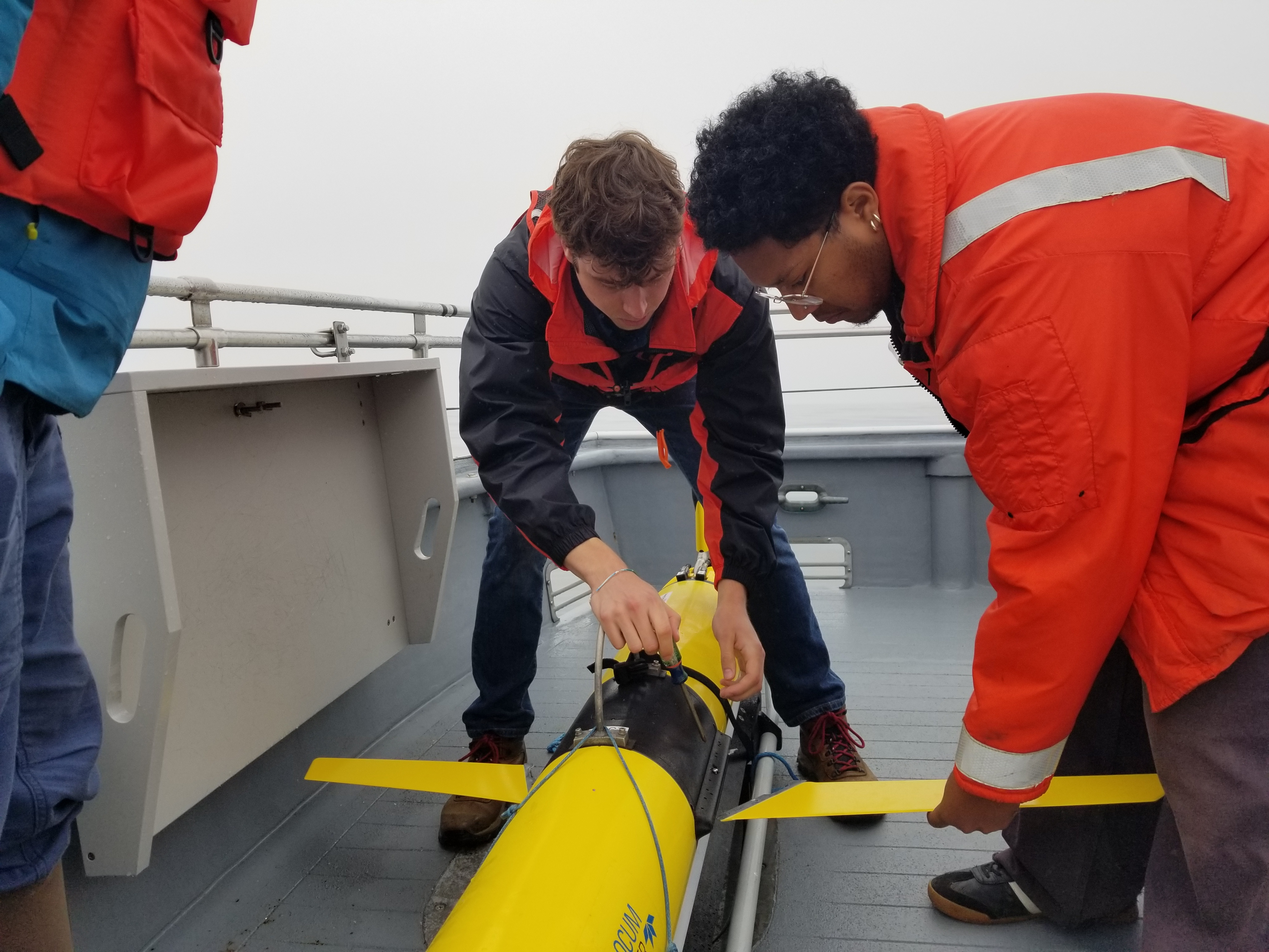
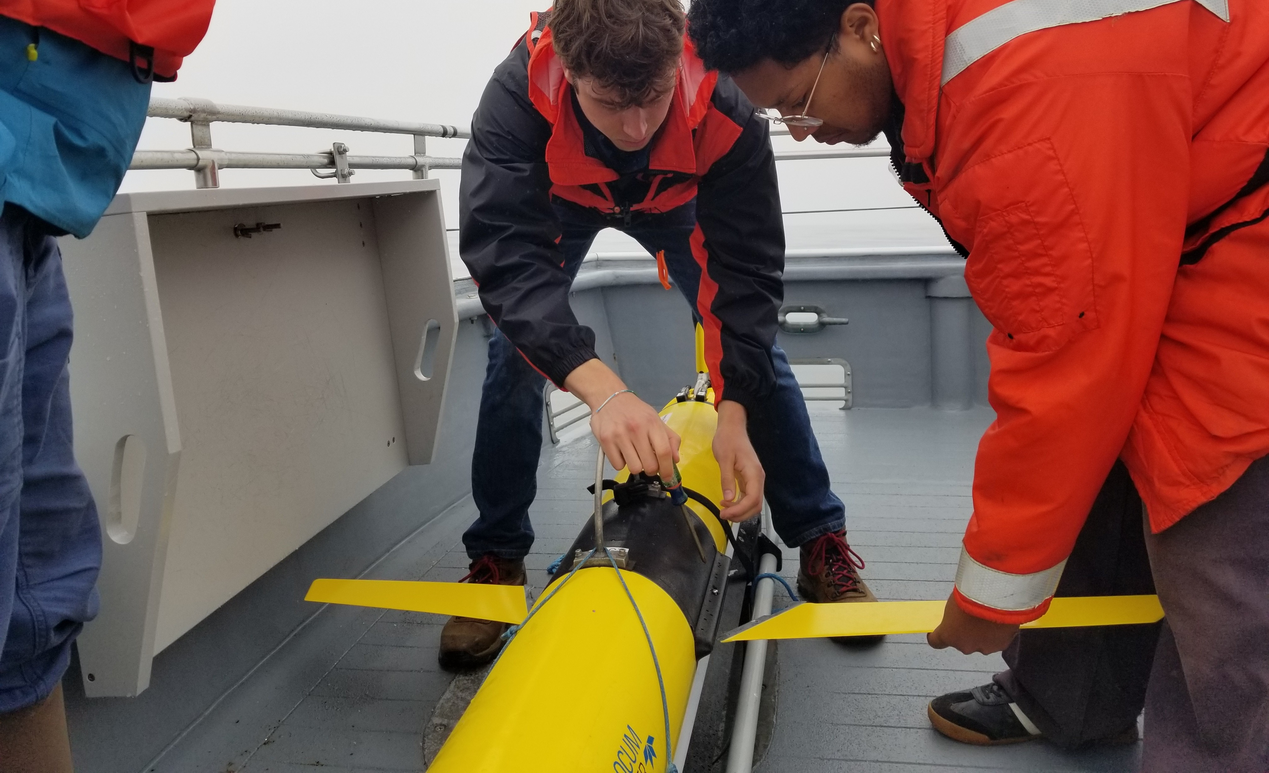
Built site for gh-pages

diff --git a/seagliders/basestation/basestation.html b/seagliders/basestation/basestation.html
@@ -239,38 +239,55 @@ ul.task-list li input[type="checkbox"] {
 
 <section id="common-basestation-commands" class="level2">
 <h2 class="anchored" data-anchor-id="common-basestation-commands">Common Basestation Commands</h2>
-<p><strong>Reprocess.py</strong> Reprocess.py starts with the .log and .eng files and can regenerate netcdf files, run Flight Model and generate plots.</p>
+<p><strong>Reprocess.py</strong></p>
+<p>Reprocess.py starts with the .log and .eng files and can regenerate netcdf files, run Flight Model and generate plots.</p>
 <p>Regenerate all netcdf files, run Flight Model and generate plots:</p>
 <blockquote class="blockquote">
 <p>/opt/basestation/bin/python /usr/local/basestation3/Reprocess.py<br>
 –mission_dir <seaglider_home_directory> –force –reprocess_plots</seaglider_home_directory></p>
 </blockquote>
 <p>Regenerate the dive 100 through 102 netcdf files, not re-running Flight Model</p>
-<div class="border">
-<pre><code>    /opt/basestation/bin/python /usr/local/basestation3/Reprocess.py \
-    --mission_dir &lt;seaglider_home_directory&gt; --force --skip_flight_model 100:102</code></pre>
-</div>
-<p><strong>BaseDB.py</strong> The mission database is added to during the normal logout processing. If there was ever a need to regenerate the database:</p>
-<pre><code>/opt/basestation/bin/python /usr/local/basestation3/BaseDB.py \
- --mission_dir &lt;seaglider_home_directory&gt; addncfs</code></pre>
-<p><strong>BasePlot.py</strong> Any of the plots may be generated outside of the normal logout processing.</p>
+<blockquote class="blockquote">
+<p>/opt/basestation/bin/python /usr/local/basestation3/Reprocess.py<br>
+–mission_dir <seaglider_home_directory> –force –skip_flight_model 100:102</seaglider_home_directory></p>
+</blockquote>
+<p><strong>BaseDB.py</strong></p>
+<p>The mission database is added to during the normal logout processing. If there was ever a need to regenerate the database:</p>
+<blockquote class="blockquote">
+<p>/opt/basestation/bin/python /usr/local/basestation3/BaseDB.py<br>
+–mission_dir <seaglider_home_directory> addncfs</seaglider_home_directory></p>
+</blockquote>
+<p><strong>BasePlot.py</strong></p>
+<p>Any of the plots may be generated outside of the normal logout processing.</p>
 <p>To generate all the plots for dive 100, generating stand-alone html files, in addition to the normal output:</p>
-<pre><code>/opt/basestation/bin/python /usr/local/basestation3/BasePlot.py \
- --mission_dir &lt;seaglider_home_directory&gt;  --plot_types dives --full_html p0010100.nc</code></pre>
+<blockquote class="blockquote">
+<p>/opt/basestation/bin/python /usr/local/basestation3/BasePlot.py<br>
+–mission_dir <seaglider_home_directory> –plot_types dives –full_html p0010100.nc</seaglider_home_directory></p>
+</blockquote>
 <p>To regenerate the whole mission plots:</p>
-<pre><code>/opt/basestation/bin/python /usr/local/basestation3/BasePlot.py \
- --mission_dir &lt;seaglider_home_directory&gt;  --plot_types mission</code></pre>
-<p><strong>MoveData.py</strong> MoveData.py is used to clean up a Seaglider’s home directory prior to a new deployment.</p>
-<pre><code>/opt/basestation/bin/python /usr/local/basestation3/MoveData.py \
- --mission_dir &lt;seaglider_home_directory&gt; -t &lt;target_directory&gt; --verbose</code></pre>
-<p><strong>BaseCtrlFiles.py</strong> BaseCtrlFiles.py contains the low-level routines that send notifications sent via the pagers.yml configuration files. For debugging purposes, these routines can be accessed directly, but they may not generate meaningful content. Additionally, it is possible to dump the merged pagers.yml dictionary.</p>
+<blockquote class="blockquote">
+<p>/opt/basestation/bin/python /usr/local/basestation3/BasePlot.py<br>
+–mission_dir <seaglider_home_directory> –plot_types mission</seaglider_home_directory></p>
+</blockquote>
+<p><strong>MoveData.py</strong></p>
+<p>MoveData.py is used to clean up a Seaglider’s home directory prior to a new deployment.</p>
+<blockquote class="blockquote">
+<p>/opt/basestation/bin/python /usr/local/basestation3/MoveData.py<br>
+–mission_dir <seaglider_home_directory> -t <target_directory> –verbose</target_directory></seaglider_home_directory></p>
+</blockquote>
+<p><strong>BaseCtrlFiles.py</strong></p>
+<p>BaseCtrlFiles.py contains the low-level routines that send notifications sent via the pagers.yml configuration files. For debugging purposes, these routines can be accessed directly, but they may not generate meaningful content. Additionally, it is possible to dump the merged pagers.yml dictionary.</p>
 <p>To execute a low-level notification, simply supply one of the low-level notification tags:</p>
-<pre><code>/opt/basestation/bin/python /usr/local/basestation3/BaseCtrlFiles.py \
- --mission_dir &lt;seaglider_home_directory&gt; [--group_etc &lt;group_etc_directory&gt;] [divetar,upload,lategps,errors,drift,comp,tracebackrecov,alerts,gps,critical]</code></pre>
+<blockquote class="blockquote">
+<p>/opt/basestation/bin/python /usr/local/basestation3/BaseCtrlFiles.py<br>
+–mission_dir <seaglider_home_directory> [–group_etc <group_etc_directory>] [divetar,upload,lategps,errors,drift,comp,tracebackrecov,alerts,gps,critical]</group_etc_directory></seaglider_home_directory></p>
+</blockquote>
 <p>For example, gps will dispatch the GPS position found in the last comm session in the comm.log to those users subscribing to gps notifications.</p>
 <p>To dump the merged pagers.yml dictionary:</p>
-<pre><code>/opt/basestation/bin/python /usr/local/basestation3/BaseCtrlFiles.py \
- --mission_dir &lt;seaglider_home_directory&gt; [--group_etc &lt;group_etc_directory&gt;] dump_pagers_yml</code></pre>
+<blockquote class="blockquote">
+<p>/opt/basestation/bin/python /usr/local/basestation3/BaseCtrlFiles.py<br>
+–mission_dir <seaglider_home_directory> [–group_etc <group_etc_directory>] dump_pagers_yml</group_etc_directory></seaglider_home_directory></p>
+</blockquote>
 
 
 </section>
